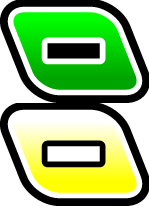
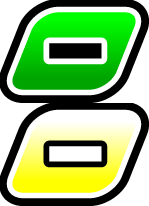
feat: adding a fullscreen and exit button to the GUI, as well as inverting certain buttons' sprite

diff --git a/GUI/src/Citadel/Instance/DisplayModule.cpp b/GUI/src/Citadel/Instance/DisplayModule.cpp
@@ -100,6 +100,8 @@ MORTYMERE_INSTANCE_DISPLAY_MODULE(citadelDisplayModuleUIMainMenu)
         citadel->lastMenu == Citadel::InstanceCurrentMenu::MainMenu;
 
     if (!isCurrentMenu) {
+        citadel->mainMenuButtonExit.reset();
+        citadel->mainMenuButtonFullscreen.reset();
         citadel->mainMenuButtonPlay.reset();
         if (!isLastMenu)
             return;
@@ -157,6 +159,29 @@ MORTYMERE_INSTANCE_DISPLAY_MODULE(citadelDisplayModuleUIMainMenu)
         sf::Mouse::isButtonPressed(sf::Mouse::Left)).hasBeenPressed())
         citadel->changeCurrentMenu(Citadel::InstanceCurrentMenu::None);
     instance.window.draw(citadel->mainMenuButtonPlay);
+    // Exit
+    buttonPlayColor.a *= 0.9;
+    citadel->mainMenuButtonExit.setScale(0.5, 0.5);
+    citadel->mainMenuButtonExit.setColor(buttonPlayColor);
+    position.y = windowSize.y * -0.5 + \
+        citadel->noneButtonSettings.getGlobalBounds().height;
+    citadel->mainMenuButtonExit.setPosition(windowSize.x * -0.5, position.y);
+    if (isCurrentMenu && citadel->mainMenuButtonExit.update( \
+        instance.window.mouseUI, instance.window.hasFocus && \
+        sf::Mouse::isButtonPressed(sf::Mouse::Left)).hasBeenPressed())
+        instance.window.close();
+    instance.window.draw(citadel->mainMenuButtonExit);
+    // Fullscreen
+    citadel->mainMenuButtonFullscreen.setScale(0.5, 0.5);
+    citadel->mainMenuButtonFullscreen.setColor(buttonPlayColor);
+    position.y += citadel->mainMenuButtonExit.getGlobalBounds().height;
+    citadel->mainMenuButtonFullscreen.setPosition(windowSize.x * -0.5, \
+        position.y);
+    if (isCurrentMenu && citadel->mainMenuButtonFullscreen.update( \
+        instance.window.mouseUI, instance.window.hasFocus && \
+        sf::Mouse::isButtonPressed(sf::Mouse::Left)).hasBeenPressed())
+        instance.window.setFullscreen();
+    instance.window.draw(citadel->mainMenuButtonFullscreen);
 }
 
 MORTYMERE_INSTANCE_DISPLAY_MODULE(citadelDisplayModuleUINone)

diff --git a/GUI/include/Citadel/Instance.hpp b/GUI/include/Citadel/Instance.hpp
@@ -78,6 +78,10 @@ public: // PUBLIC MEMBERS
     sf::RectangleShape mainMenuTitle;
     /// @brief Default TextureRect of mainMenuTitle
     sf::IntRect mainMenuTitleTextureRect;
+    /// @brief Button for exiting the game
+    Mortymere::Button mainMenuButtonExit;
+    /// @brief Button for using the fullscreen mode
+    Mortymere::Button mainMenuButtonFullscreen;
     /// @brief Button for leaving the main menu
     Mortymere::Button mainMenuButtonPlay;
     /// @brief Time since the last menu (from 0.0f to 1.0f)

diff --git a/GUI/src/Citadel/Instance.cpp b/GUI/src/Citadel/Instance.cpp
@@ -305,6 +305,8 @@ static void convertCommand(std::string const &cmd, size_t &ac, \
 }
 
 INSTANCE::Instance(Mortymere::Instance &engine) : _engine(engine), \
+    mainMenuButtonExit("graphics/buttons/Exit.png"), \
+    mainMenuButtonFullscreen("graphics/buttons/Fullscreen.png"), \
     mainMenuButtonPlay("graphics/buttons/Play.png"), \
     noneButtonSettings("graphics/buttons/Settings.png"), \
     noneButtonZoomIn("graphics/buttons/Plus.png"), \
